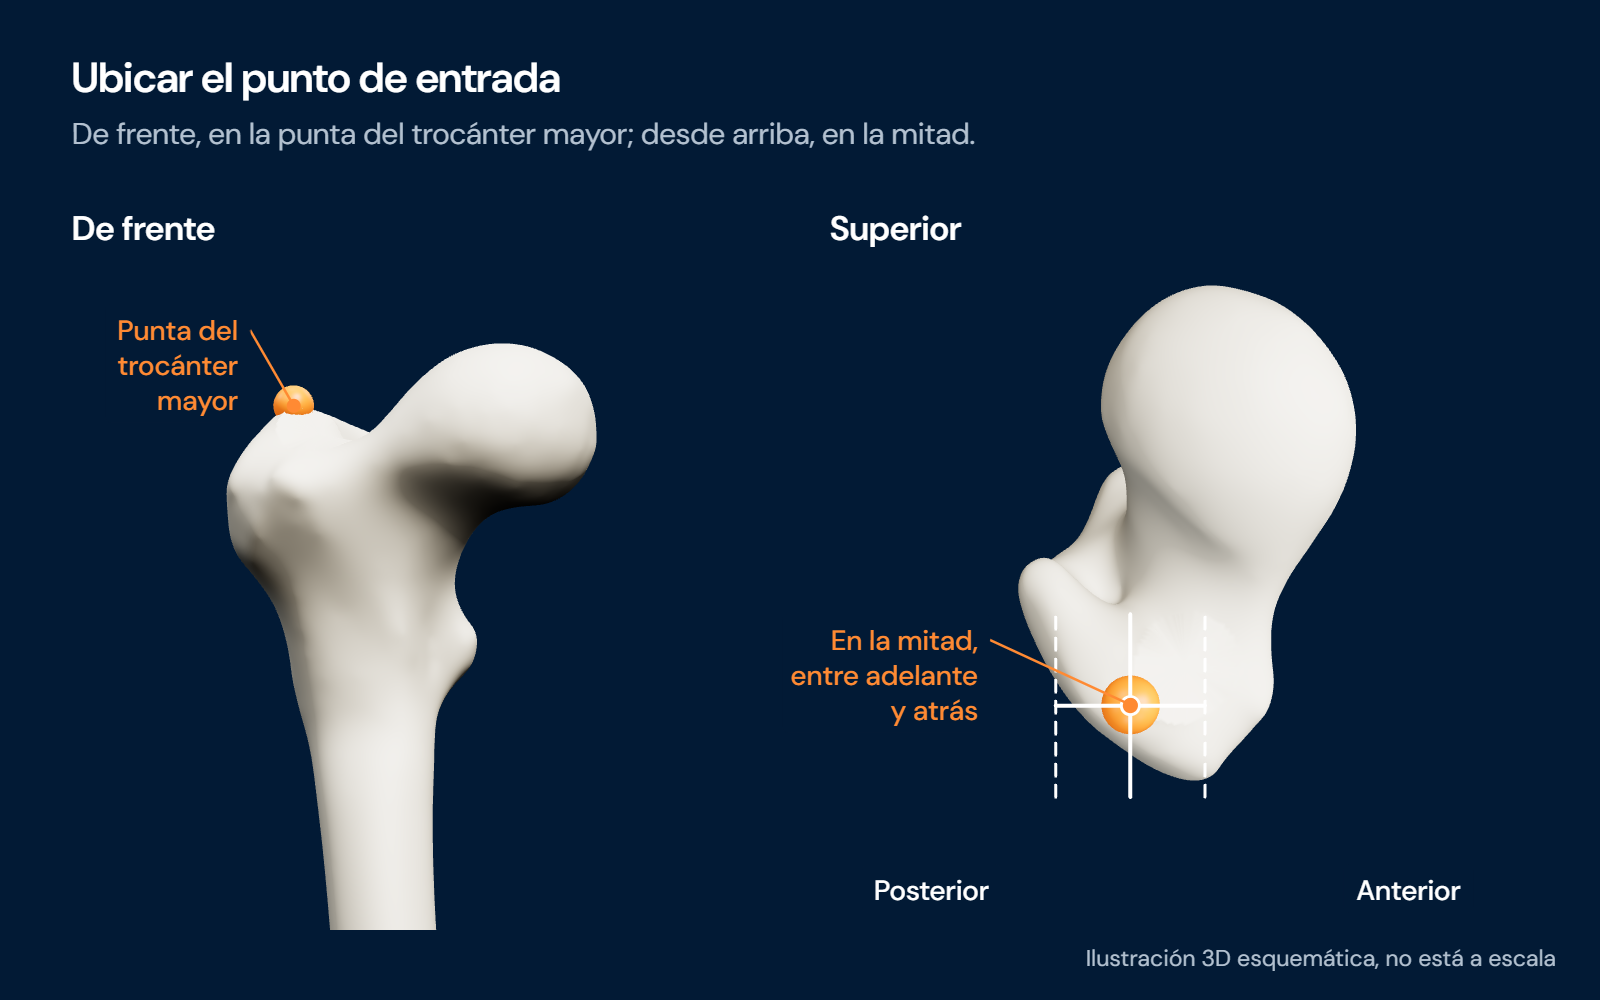
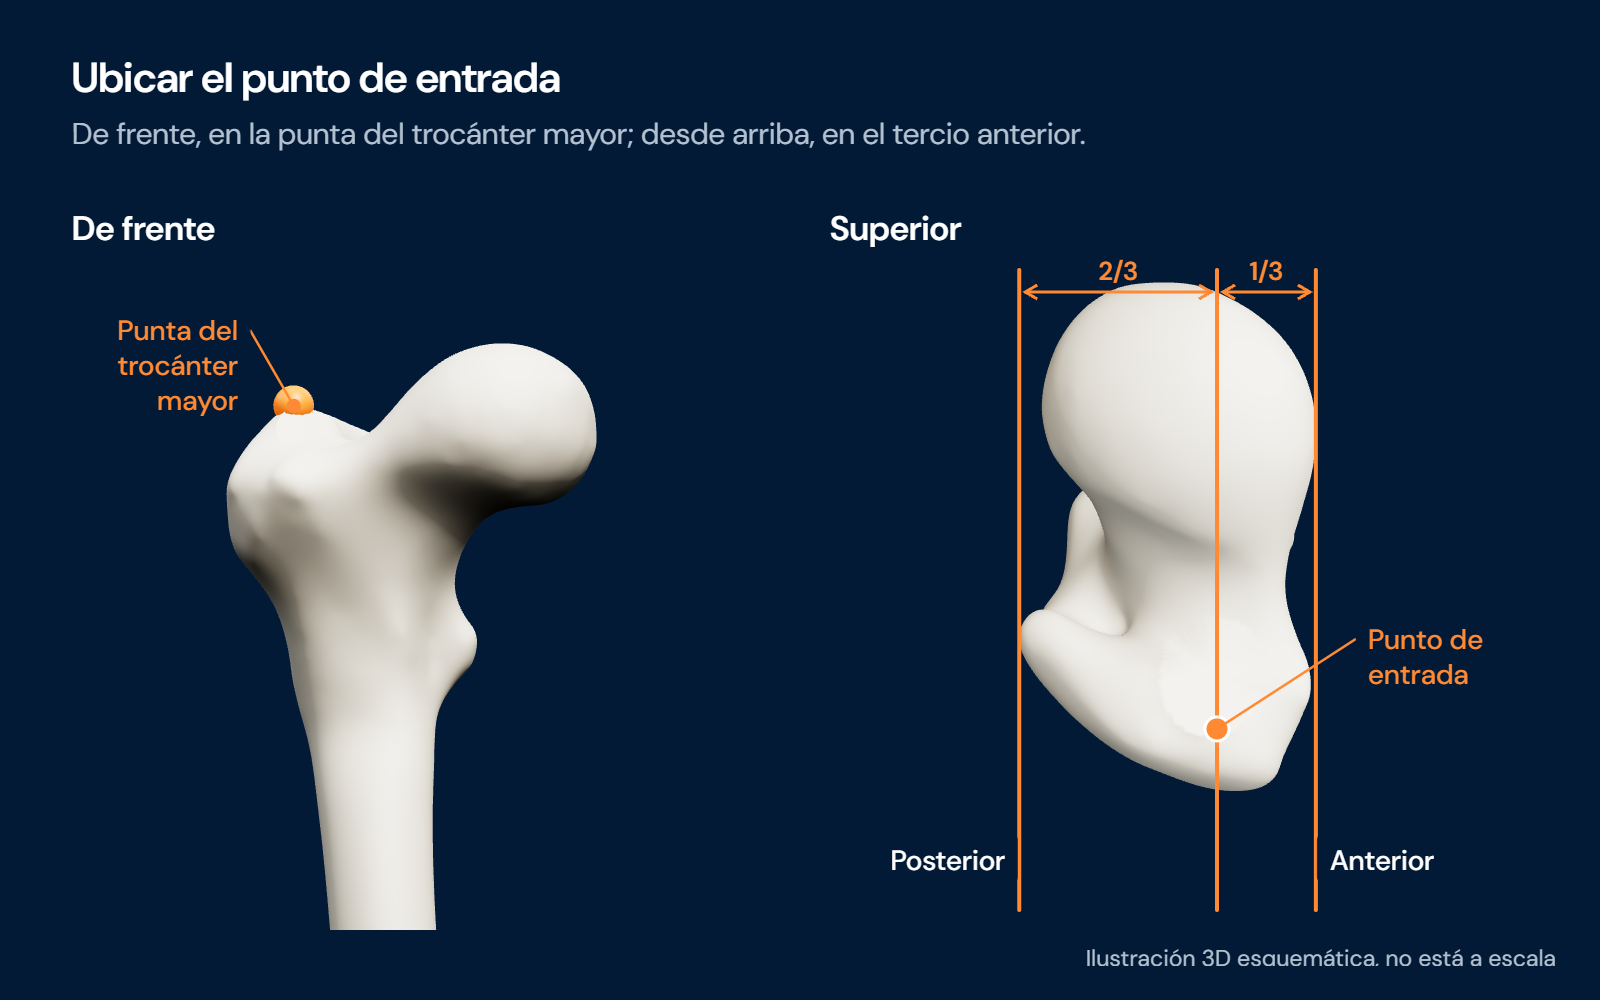
Punto de entrada en vista superior: línea del tercio anterior como en Kangli

diff --git a/web/ilustraciones3d/escenas.js b/web/ilustraciones3d/escenas.js
@@ -1011,19 +1011,20 @@ const ESCENAS = {
     const scene = new THREE.Scene();
     floorAndLights(scene, { key: [0.6, 2, 2], span: 0.5, floorY: -2 });
     scene.add(femur(M.bone));
-    scene.add(ball(0.0058, M.orange, point.toArray()));
+    const entryBall = ball(0.0058, M.orange, point.toArray());   // solo en la vista de frente
     const front = { x: 40, y: 200, w: 660, h: 730 };
 
-    // Vista superior, igual que la del visor: cabeza arriba, trocánter abajo, lo anterior a la derecha.
+    // Vista superior como la de Kangli: cabeza justo arriba del trocánter (el cuello vertical en la imagen), tres
+    // líneas paralelas a ese eje: borde anterior, borde posterior y la del tercio anterior (1/3 adelante, 2/3 atrás).
     const top = { x: 780, y: 200, w: 780, h: 730 };
-    // Mismos ejes anatómicos que el visor (superior = eje mecánico; medial = línea condílea posterior).
     const SUP = new THREE.Vector3(0.0758, 0.992, 0.1006).normalize();
-    const MED = new THREE.Vector3(0.9315, -0.1065, 0.3479).normalize();
     const ANT = new THREE.Vector3(-0.3558, -0.0673, 0.9321).normalize();
-    const focus = new THREE.Vector3(0.016, 0.19, 0.002);
-    const camTop = new THREE.PerspectiveCamera(24, top.w / top.h, 0.02, 10);
-    camTop.position.copy(focus).addScaledVector(SUP, 0.36);
-    camTop.up.copy(MED);
+    const HEAD = new THREE.Vector3(0.0429, 0.1977, 0.0245);
+    const upTop = HEAD.clone().sub(point).projectOnPlane(SUP).normalize();
+    const focus = point.clone().lerp(HEAD, 0.5);
+    const camTop = new THREE.PerspectiveCamera(16, top.w / top.h, 0.02, 10);
+    camTop.position.copy(focus).addScaledVector(SUP, 0.5);
+    camTop.up.copy(upTop);
     camTop.lookAt(focus);
     camTop.updateMatrixWorld();
     render(scene, camTop, top);
@@ -1034,33 +1035,47 @@ const ESCENAS = {
     camFront.up.copy(SUP);
     camFront.lookAt(frontFocus);
     camFront.updateMatrixWorld();
+    scene.add(entryBall);
     render(scene, camFront, front);
     const pf = projector(camFront, front);
     const pt = projector(camTop, top);
-    // Guía de la vista superior: bordes anterior y posterior de la cima del trocánter, la mitad por la entrada
-    // y una línea de adelante hacia atrás que cruza en la entrada (los mismos 14,7 mm del paso 3.1).
-    const guide = (a, b, dashed) => {
-      const [x1, y1] = pt(a.toArray()); const [x2, y2] = pt(b.toArray());
-      add('line', { x1, y1, x2, y2, stroke: C.white, 'stroke-width': dashed ? 3 : 4, 'stroke-dasharray': dashed ? '12 9' : 'none', 'stroke-linecap': 'round' });
-    };
-    const lifted = point.clone().addScaledVector(SUP, 0.002);
-    [-0.0147, 0, 0.0147].forEach((a) => {
-      const c = lifted.clone().addScaledVector(ANT, a);
-      guide(c.clone().addScaledVector(MED, -0.018), c.clone().addScaledVector(MED, 0.018), a !== 0);
+    // Silueta vista desde arriba (parte alta del fémur): bordes izquierdo y derecho en la imagen.
+    let xMin = Infinity, xMax = -Infinity;
+    const v = new THREE.Vector3();
+    femurGeometries.forEach((g) => {
+      const pos = g.attributes.position;
+      for (let i = 0; i < pos.count; i += 3) {
+        v.fromBufferAttribute(pos, i);
+        if (v.clone().sub(point).dot(SUP) < -0.09) continue;
+        const [x] = pt(v.toArray());
+        xMin = Math.min(xMin, x); xMax = Math.max(xMax, x);
+      }
     });
-    guide(lifted.clone().addScaledVector(ANT, -0.0147), lifted.clone().addScaledVector(ANT, 0.0147), false);
-    const [cx, cy] = pt(lifted.toArray());
-    add('circle', { cx, cy, r: 9, fill: C.orange, stroke: C.white, 'stroke-width': 3 });
-    title('Ubicar el punto de entrada', 'De frente, en la punta del trocánter mayor; desde arriba, en la mitad.');
+    const antRight = pt(point.clone().addScaledVector(ANT, 0.02).toArray())[0] > pt(point.toArray())[0];
+    const xFront = antRight ? xMax : xMin, xBack = antRight ? xMin : xMax;
+    const xThird = xFront + (xBack - xFront) / 3;
+    const [ex, ey] = pt(point.toArray());
+    window.TERCIO = ((ex - xFront) / (xBack - xFront)).toFixed(3);   // dónde cae la entrada (0 adelante, 1 atrás)
+    const yTop = top.y + 70, yBottom = top.y + top.h - 20;
+    const vline = (x, w) => add('line', { x1: x, y1: yTop, x2: x, y2: yBottom, stroke: C.orange, 'stroke-width': w, 'stroke-linecap': 'round' });
+    vline(xFront, 4); vline(xBack, 4); vline(xThird, 4);
+    const arrowRow = yTop + 22;
+    const span = (x1, x2, text) => {
+      add('line', { x1: x1 + 6, y1: arrowRow, x2: x2 - 6, y2: arrowRow, stroke: C.orange, 'stroke-width': 3 });
+      [[x1 + 6, 1], [x2 - 6, -1]].forEach(([x, d]) => add('path', { d: `M${x + 12 * d} ${arrowRow - 7}L${x} ${arrowRow}L${x + 12 * d} ${arrowRow + 7}`, fill: 'none', stroke: C.orange, 'stroke-width': 3 }));
+      label((x1 + x2) / 2, arrowRow - 12, text, { size: 26, color: C.orange, weight: 600, anchor: 'middle' });
+    };
+    const [l1, r1] = [Math.min(xFront, xThird), Math.max(xFront, xThird)];
+    const [l2, r2] = [Math.min(xThird, xBack), Math.max(xThird, xBack)];
+    span(l1, r1, '1/3'); span(l2, r2, '2/3');
+    add('circle', { cx: xThird, cy: ey, r: 12, fill: C.orange, stroke: C.white, 'stroke-width': 3 });
+    title('Ubicar el punto de entrada', 'De frente, en la punta del trocánter mayor; desde arriba, en el tercio anterior.');
     label(72, 240, 'De frente', { size: 34, weight: 600 });
     label(830, 240, 'Superior', { size: 34, weight: 600 });
     callout(pf(point.toArray()), 250, 330, ['Punta del', 'trocánter', 'mayor'], { color: C.orange, anchor: 'end', size: 28 });
-    // Lo anterior queda a la derecha y lo posterior a la izquierda (fémur derecho visto desde arriba).
-    const back = pt(focus.clone().addScaledVector(ANT, -0.05).toArray());
-    const frontP = pt(focus.clone().addScaledVector(ANT, 0.05).toArray());
-    label(back[0], 900, 'Posterior', { size: 28, anchor: 'middle', plate: true });
-    label(frontP[0], 900, 'Anterior', { size: 28, anchor: 'middle', plate: true });
-    callout(pt(point.toArray()), 990, 640, ['En la mitad,', 'entre adelante', 'y atrás'], { color: C.orange, anchor: 'end', size: 28 });
+    label(xFront + (antRight ? 14 : -14), yBottom - 40, 'Anterior', { size: 28, anchor: antRight ? 'start' : 'end', plate: true });
+    label(xBack + (antRight ? -14 : 14), yBottom - 40, 'Posterior', { size: 28, anchor: antRight ? 'end' : 'start', plate: true });
+    callout([xThird, ey], antRight ? xFront + 40 : xFront - 40, ey - 90, ['Punto de', 'entrada'], { color: C.orange, anchor: antRight ? 'start' : 'end', size: 28 });
     note();
   },
 };
